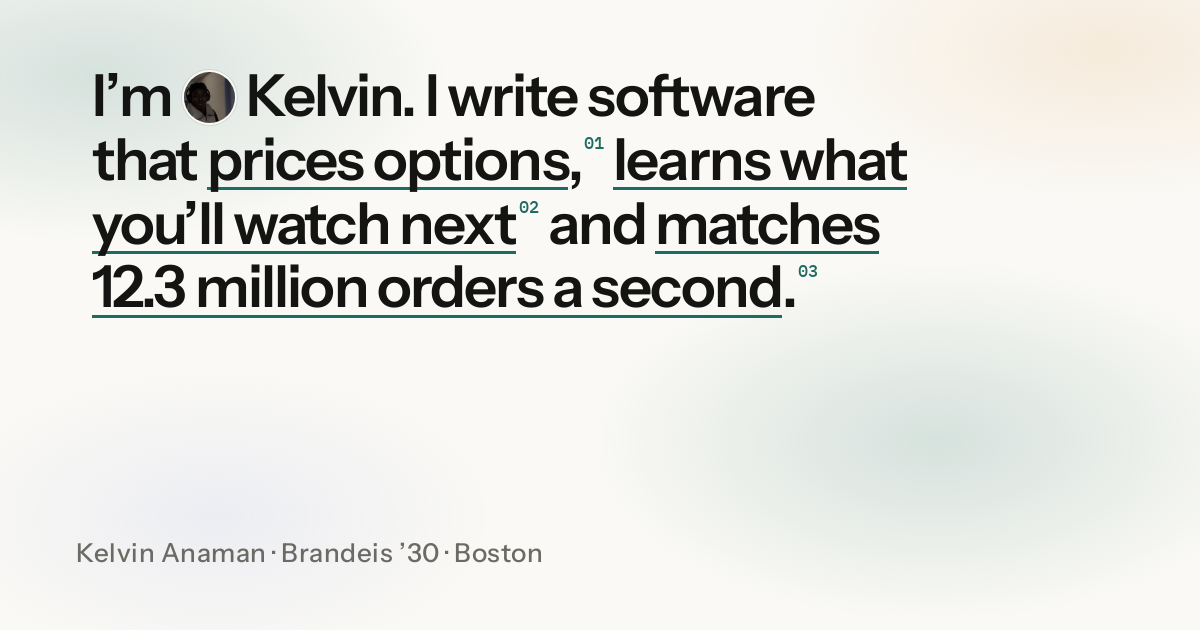
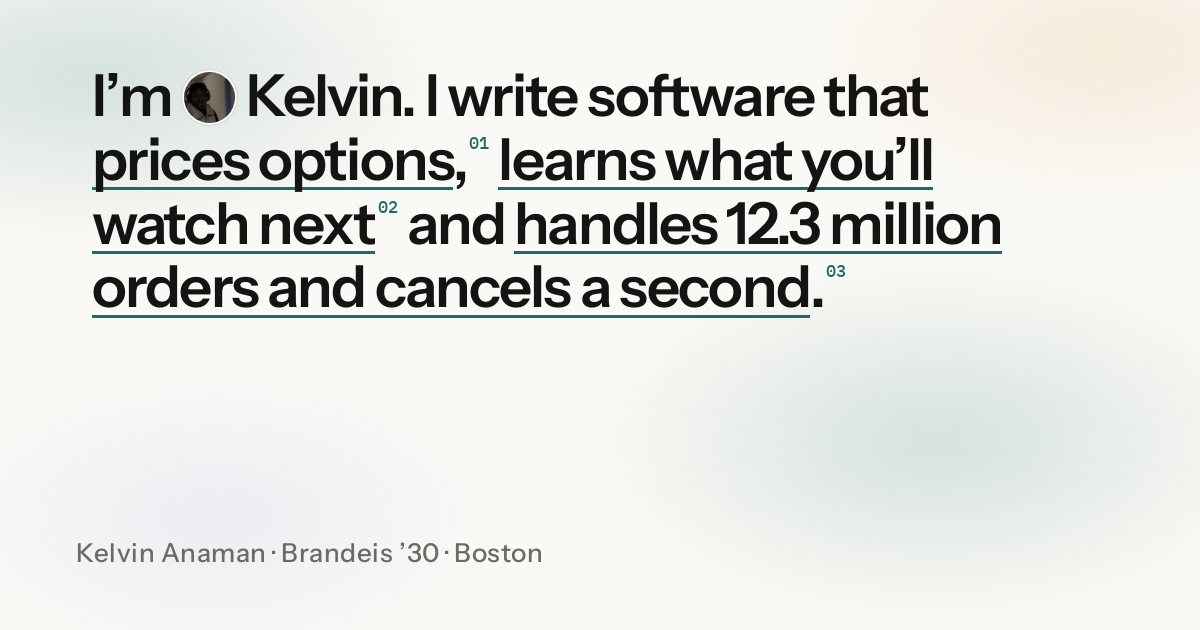
site: professional surface, corrected figures

Changed region(s): [[0.0617, 0.2111, 0.8325, 0.5127], [0.6783, 0.1206, 0.7708, 0.181], [0.5858, 0.2111, 0.6167, 0.2413]]

diff --git a/index.html b/index.html
@@ -2,7 +2,7 @@
 <html lang="en">
 <head>
 <meta charset="utf-8">
-<meta http-equiv="Content-Security-Policy" content="default-src 'none'; script-src 'sha256-goWgAYNoXjUvyhsW7u2wqlvzr5alT6ytvTSSjrYWtoE=' 'wasm-unsafe-eval'; style-src 'self' 'unsafe-inline'; font-src 'self'; img-src 'self' data:; media-src 'self'; connect-src 'self' https://api.github.com wss://advanced-trade-ws.coinbase.com; base-uri 'none'; form-action 'none'; object-src 'none'">
+<meta http-equiv="Content-Security-Policy" content="default-src 'none'; script-src 'sha256-pLDqLHekZOG+8hnKLbkPVG8Q7tNyWokit4rkqXYpQ7U=' 'wasm-unsafe-eval'; style-src 'self' 'unsafe-inline'; font-src 'self'; img-src 'self' data:; media-src 'self'; connect-src 'self' wss://advanced-trade-ws.coinbase.com; base-uri 'none'; form-action 'none'; object-src 'none'">
 <meta name="referrer" content="strict-origin-when-cross-origin">
 <meta name="viewport" content="width=device-width, initial-scale=1, viewport-fit=cover">
 <meta name="theme-color" content="#faf9f5" media="(prefers-color-scheme: light)">
@@ -13,15 +13,15 @@
 <meta property="og:type" content="website">
 <meta property="og:site_name" content="Kelvin Anaman">
 <meta property="og:title" content="Kelvin Anaman">
-<meta property="og:description" content="Kelvin Anaman writes software that prices options, learns what you’ll watch next and matches 12.3 million orders a second. Brandeis ’30.">
+<meta property="og:description" content="Kelvin Anaman writes software that prices options, learns what you’ll watch next and handles 12.3 million orders and cancels a second. Brandeis ’30.">
 <meta property="og:url" content="https://anamankev.github.io/">
 <meta property="og:image" content="https://anamankev.github.io/img/og.png">
 <meta property="og:image:width" content="1200">
 <meta property="og:image:height" content="630">
-<meta property="og:image:alt" content="Kelvin Anaman: I write software that prices options, learns what you’ll watch next and matches 12.3 million orders a second.">
+<meta property="og:image:alt" content="Kelvin Anaman: I write software that prices options, learns what you’ll watch next and handles 12.3 million orders and cancels a second.">
 <meta name="twitter:card" content="summary_large_image">
 <title>Kelvin Anaman</title>
-<meta name="description" content="Kelvin Anaman writes software that prices options, learns what you’ll watch next and matches 12.3 million orders a second. Brandeis ’30.">
+<meta name="description" content="Kelvin Anaman writes software that prices options, learns what you’ll watch next and handles 12.3 million orders and cancels a second. Brandeis ’30.">
 <style>
 @font-face { font-family: 'Instrument Sans'; font-style: normal; font-display: swap; font-weight: 400; src: url(fonts/instrument-sans-latin-ext-400-normal.woff2) format('woff2'); unicode-range: U+0100-02BA,U+02BD-02C5,U+02C7-02CC,U+02CE-02D7,U+02DD-02FF,U+0304,U+0308,U+0329,U+1D00-1DBF,U+1E00-1E9F,U+1EF2-1EFF,U+2020,U+20A0-20AB,U+20AD-20C0,U+2113,U+2C60-2C7F,U+A720-A7FF; }
 @font-face { font-family: 'Instrument Sans'; font-style: normal; font-display: swap; font-weight: 400; src: url(fonts/instrument-sans-latin-400-normal.woff2) format('woff2'); unicode-range: U+0000-00FF,U+0131,U+0152-0153,U+02BB-02BC,U+02C6,U+02DA,U+02DC,U+0304,U+0308,U+0329,U+2000-206F,U+20AC,U+2122,U+2191,U+2193,U+2212,U+2215,U+FEFF,U+FFFD; }
@@ -476,12 +476,6 @@ svg.thumb .acc { fill: var(--accent); }
 @media (max-width: 860px) { .about-intro { grid-template-columns: minmax(0, 1fr); gap: 24px; } .about-intro .portrait { order: -1; max-width: 160px; justify-self: start; } .loves, .gallery { grid-template-columns: repeat(2, minmax(0, 1fr)); } }
 @media (max-width: 520px) { .loves, .gallery { grid-template-columns: minmax(0, 1fr); } .now { grid-template-columns: minmax(0, 1fr); gap: 4px; } }
 
-/* live line */
-.live { display: flex; align-items: center; gap: 8px; margin: 18px 0 0; font-size: 0.82rem; color: var(--ink-3); min-width: 0; }
-.live i { flex: none; width: 7px; height: 7px; border-radius: 50%; background: var(--buy); box-shadow: 0 0 0 3px color-mix(in srgb, var(--buy) 25%, transparent); }
-.live a { color: var(--ink-2); text-decoration: none; overflow: hidden; text-overflow: ellipsis; white-space: nowrap; min-width: 0; }
-.live a:hover { color: var(--accent); }
-.live b { font-family: var(--mono); font-weight: 500; color: var(--ink); }
 
 /* easter eggs */
 .confetti { position: fixed; inset: 0; z-index: 70; pointer-events: none; }
@@ -645,7 +639,7 @@ footer .base { grid-column: 1 / -1; display: flex; justify-content: space-betwee
   <div class="view" id="v-home">
     <div class="wrap">
       <section class="statement">
-        <h1>I’m <img class="face" src="me.jpg" width="56" height="56" alt=""> Kelvin. I write software that <a href="#options-pricing-engine" data-inst="price">prices options</a>,<sup aria-hidden="true">01</sup> <a href="#two-stage-recsys" data-inst="learn">learns what you’ll watch next</a><sup aria-hidden="true">02</sup> and <a href="#brier" data-inst="match">matches 12.3 million orders a second</a>.<sup aria-hidden="true">03</sup></h1>
+        <h1>I’m <img class="face" src="me.jpg" width="56" height="56" alt=""> Kelvin. I write software that <a href="#options-pricing-engine" data-inst="price">prices options</a>,<sup aria-hidden="true">01</sup> <a href="#two-stage-recsys" data-inst="learn">learns what you’ll watch next</a><sup aria-hidden="true">02</sup> and <a href="#brier" data-inst="match">handles 12.3 million orders and cancels a second</a>.<sup aria-hidden="true">03</sup></h1>
       </section>
       <section class="instruments" id="instruments" aria-label="Three of my engines, running in this page">
         <article class="inst" data-inst="price">
@@ -664,7 +658,7 @@ footer .base { grid-column: 1 / -1; display: flex; justify-content: space-betwee
           <header><span class="ix">03</span><h2>Match</h2><a class="src" href="#brier">brier →</a></header>
           <div class="viz ladder-mini" id="iv-match" role="img" aria-label="A prediction-market order book, with orders arriving and trading"></div>
           <dl class="read" id="ir-match"></dl>
-          <p class="proof"><b>0 of 6,058,014</b> acknowledged orders lost across 1,000 crashes</p>
+          <p class="proof"><b>0 of 6,058,014</b> acknowledged commands lost across 1,000 crashes</p>
         </article>
       </section>
       <p class="inst-note"><i></i>Running now: my Rust engines, compiled to WebAssembly. The stock, the tastes and the orders are simulated.</p>
@@ -689,7 +683,6 @@ footer .base { grid-column: 1 / -1; display: flex; justify-content: space-betwee
             <a class="icon-btn" href="https://github.com/anamankev" aria-label="GitHub"><svg viewBox="0 0 16 16" fill="currentColor" aria-hidden="true"><path d="M8 0C3.58 0 0 3.58 0 8c0 3.54 2.29 6.53 5.47 7.59.4.07.55-.17.55-.38v-1.34c-2.23.48-2.7-1.07-2.7-1.07-.36-.92-.89-1.17-.89-1.17-.73-.5.06-.49.06-.49.8.06 1.23.83 1.23.83.72 1.22 1.87.87 2.33.66.07-.52.28-.87.5-1.07-1.78-.2-3.64-.89-3.64-3.95 0-.87.31-1.59.82-2.15-.08-.2-.36-1.02.08-2.12 0 0 .67-.21 2.2.82a7.6 7.6 0 0 1 4 0c1.53-1.04 2.2-.82 2.2-.82.44 1.1.16 1.92.08 2.12.51.56.82 1.27.82 2.15 0 3.07-1.87 3.75-3.65 3.95.29.25.54.73.54 1.48v2.2c0 .21.15.46.55.38A8 8 0 0 0 16 8c0-4.42-3.58-8-8-8Z"/></svg></a>
             <a class="icon-btn" href="https://www.linkedin.com/in/kelvin-anaman" aria-label="LinkedIn"><svg viewBox="0 0 24 24" fill="currentColor" aria-hidden="true"><path d="M20.45 20.45h-3.56v-5.57c0-1.33-.02-3.04-1.85-3.04-1.85 0-2.14 1.45-2.14 2.94v5.67H9.35V9h3.41v1.56h.05c.48-.9 1.64-1.85 3.37-1.85 3.6 0 4.27 2.37 4.27 5.46v6.28ZM5.34 7.43a2.06 2.06 0 1 1 0-4.13 2.06 2.06 0 0 1 0 4.13ZM7.12 20.45H3.56V9h3.56v11.45ZM22.22 0H1.77C.79 0 0 .77 0 1.73v20.54C0 23.23.79 24 1.77 24h20.45c.98 0 1.78-.77 1.78-1.73V1.73C24 .77 23.2 0 22.22 0Z"/></svg></a>
           </div>
-          <p class="live" id="live" hidden><i></i><span id="live-text"></span></p>
         </div>
         <figure class="portrait"><img src="me.jpg" width="336" height="336" alt="Kelvin Anaman"></figure>
       </section>
@@ -825,7 +818,7 @@ footer .base { grid-column: 1 / -1; display: flex; justify-content: space-betwee
           <div>
             <p class="about-lead">I grew up in Ghana and now live in Boston, where I study quantitative economics, mathematics and computer science at Brandeis as a Wien Scholar.</p>
             <p>I learn a system by building it myself. I wrote a vector index from the HNSW paper and a matching engine from an empty file, then tested each one against the tools professionals use. Now I’m building <a href="#kestrel" style="color:var(--ink);text-decoration-color:var(--accent);text-underline-offset:3px">Kestrel</a>, a market terminal for students, and running <a href="https://pulseenergies.com" style="color:var(--ink);text-decoration-color:var(--accent);text-underline-offset:3px">Pulse Energies</a>, the grid-forecasting company I founded.</p>
-            <p>A fun fact: some of my favourite work is with other people’s startups. I build alongside founders and advise them where I can, so if you’re starting something, I’d like to hear about it.</p>
+            <p>I also work with early-stage founders, building alongside them and advising on product and engineering.</p>
             <div class="route-line" aria-label="From Ghana to Boston"><span class="flag" aria-hidden="true"><i></i><i></i><i></i><b>★</b></span><span>Ghana</span><span class="dash"></span><span>Boston</span></div>
           </div>
           <figure class="portrait"><img src="me.jpg" width="336" height="336" alt="Kelvin Anaman"></figure>
@@ -853,18 +846,6 @@ footer .base { grid-column: 1 / -1; display: flex; justify-content: space-betwee
         </div>
       </section>
 
-      <section class="section" style="padding-top:0">
-        <p class="kicker">Off the clock</p>
-        <h2 style="margin-bottom:18px">A few things I love</h2>
-        <div class="loves">
-          <div class="love"><div class="k">Sports</div><div class="v">Big sports fan</div></div>
-          <div class="love"><div class="k">Music</div><div class="v">Afrobeat and gospel</div></div>
-          <div class="love"><div class="k">Food</div><div class="v">Ghana jollof</div><p>Arguably the best jollof rice, and I will argue it.</p></div>
-          <div class="love"><div class="k">Screen</div><div class="v">Movies over books</div><p>Given the choice, a film wins.</p></div>
-          <div class="love"><div class="k">Games</div><div class="v">Chess and poker</div><p>One game of perfect information, one of hidden information.</p></div>
-          <div class="love"><div class="k">Travel</div><div class="v">Qatar, the UK, 10 US states</div><p>Visited for fun, and the list is growing.</p></div>
-        </div>
-      </section>
 
       <section class="section" style="padding-top:0" id="gallery-sec" hidden>
         <p class="kicker">Photos</p>
@@ -887,18 +868,17 @@ footer .base { grid-column: 1 / -1; display: flex; justify-content: space-betwee
       <div class="page-head">
         <p class="kicker">Colophon</p>
         <h1>How this site is built</h1>
-        <p>One hand-written file of HTML, CSS and JavaScript. No framework, no bundler, no trackers.</p>
+        <p>Hand-written HTML, CSS and TypeScript, with Rust compiled to WebAssembly. No framework and no trackers.</p>
       </div>
       <section class="section colo">
         <dl>
           <div><dt>Languages</dt><dd>TypeScript for the page logic, type-checked on every push. Rust compiled to WebAssembly for the three demo engines: the order book, the Black-Scholes pricer and the HNSW search. Python for the build, the browser tests and the charts. HTML and CSS for everything you see.</dd></div>
           <div><dt>Weight</dt><dd><span data-weight>42 KB</span> of page and <span data-wasm-weight>9 KB</span> of WebAssembly, gzipped, before images. The build measures both on every change.</dd></div>
           <div><dt>Routing</dt><dd>Every page, case study and post lives in one document and is chosen by the URL hash, so links to any page work and the back button behaves. Page changes use the View Transitions API where the browser has it, and skip it for anyone who prefers reduced motion.</dd></div>
-          <div><dt>Command line</dt><dd>Modelled on Kestrel, my terminal. <kbd>⌘K</kbd> or <kbd>/</kbd> opens it; commands match by code, then by prefix, then by subsequence. It is an ARIA listbox, so it works from the keyboard and with a screen reader. A few commands are hidden: try <code>HELP</code>.</dd></div>
-          <div><dt>Demos</dt><dd>The order book, the pricer and the HNSW search run in Rust compiled to WebAssembly, with Rust unit tests for the matching order, the option values and the search result. Each keeps a TypeScript version as a fallback for browsers without WebAssembly. The live order book streams Coinbase’s public feed.</dd></div>
-          <div><dt>Live data</dt><dd>The “latest commit” line on the home page calls the public GitHub API, caches the answer for ten minutes in session storage, and disappears quietly if GitHub doesn’t answer.</dd></div>
-          <div><dt>Privacy</dt><dd>No cookies and no analytics. Local storage holds only your theme and which secrets you’ve found. Fonts load from Google Fonts.</dd></div>
-          <div><dt>Type and color</dt><dd>Plus Jakarta Sans and IBM Plex Mono. Graphite and cyan, the same palette as Kestrel, in light and dark.</dd></div>
+          <div><dt>Command line</dt><dd>Modelled on Kestrel, my terminal. <kbd>⌘K</kbd> or <kbd>/</kbd> opens it; commands match by code, then by prefix, then by subsequence. It is an ARIA listbox, so it works from the keyboard and with a screen reader. Type <code>?</code> to list every command.</dd></div>
+          <div><dt>Demos</dt><dd>The order book, the pricer and the HNSW search run in Rust compiled to WebAssembly, on the home page and on each project page, with Rust unit tests for the matching order, the option values and the search result. Each keeps a TypeScript version as a fallback for browsers without WebAssembly. The live order book streams Coinbase’s public feed.</dd></div>
+          <div><dt>Privacy</dt><dd>No cookies, no analytics and no third-party requests: the code, fonts and images are all served from this site. Only the Kestrel page connects elsewhere, to Coinbase’s public market data, for its live order book. Local storage holds only your theme.</dd></div>
+          <div><dt>Type and color</dt><dd>Instrument Sans and IBM Plex Mono, both under the SIL Open Font License and served from this site. Warm paper and deep teal, in light and dark.</dd></div>
         </dl>
       </section>
     </div>
@@ -917,7 +897,7 @@ footer .base { grid-column: 1 / -1; display: flex; justify-content: space-betwee
     <div><h4>Pages</h4><ul><li><a href="#experience">Experience</a></li><li><a href="#projects">Projects</a></li><li><a href="#writing">Writing</a></li><li><a href="#about">About</a></li><li><a href="#colophon">How this site is built</a></li></ul></div>
     <div><h4>Projects</h4><ul><li><a href="#brier">brier</a></li><li><a href="#hnsw-engine">hnsw-engine</a></li><li><a href="#options-pricing-engine">options-pricing-engine</a></li><li><a href="#kestrel">kestrel</a></li><li><a href="#two-stage-recsys">two-stage-recsys</a></li></ul></div>
     <div><h4>Contact</h4><ul><li><a href="mailto:kanaman@brandeis.edu">kanaman@brandeis.edu</a></li><li><a href="https://github.com/anamankev">GitHub</a></li><li><a href="https://www.linkedin.com/in/kelvin-anaman">LinkedIn</a></li></ul></div>
-    <div class="base"><span>© 2026 Kelvin Anaman · <span id="clock" hidden></span></span><span>No frameworks, no trackers: <span id="weight">49 KB</span> of page and <span id="wasm-weight">12 KB</span> of WebAssembly, gzipped, before images.</span></div>
+    <div class="base"><span>© 2026 Kelvin Anaman</span><span>No frameworks, no trackers: <span id="weight">48 KB</span> of page and <span id="wasm-weight">12 KB</span> of WebAssembly, gzipped, before images.</span></div>
   </div>
 </footer>
 
@@ -1029,7 +1009,7 @@ footer .base { grid-column: 1 / -1; display: flex; justify-content: space-betwee
       cmd: "BRIER",
       name: "brier",
       demo: "Order book",
-      card: 'A prediction-market exchange in Rust, open to the public with play money. It matches <span class="num">12.3M orders a second</span> on one core and was killed 1,000 times under load without losing an acknowledged order.',
+      card: 'A prediction-market exchange in Rust, open to the public with play money. It handles <span class="num">12.3M orders and cancels a second</span> on one core and was killed 1,000 times under load without losing an acknowledged order.',
       img: '<img src="img/brier-live.jpg" alt="Brier\u2019s live home page: a featured Juventus vs Venezia market with Yes and No prices, a probability chart, and markets closing soon" style="object-position:top left">',
       cls: "",
       tags: ["Rust", "Tokio", "PostgreSQL"],
@@ -1038,7 +1018,7 @@ footer .base { grid-column: 1 / -1; display: flex; justify-content: space-betwee
       problem: "A prediction market looks simple: yes/no contracts that pay 100 if something happens and 0 if it doesn\u2019t, so the price reads as a probability. Underneath, an exchange has to match orders fairly, never lose one it has accepted, and settle from evidence anyone can check. I built all three, from the matching engine to settlement, and opened it to the public with play money.",
       how: ["A deterministic matching engine in Rust with price-time priority. Replaying the command log reproduces every state hash.", "A double-entry ledger with pre-trade collateral checks. After every event it checks that credits issued equal balances plus escrow.", "A crash-safe journal: no order is acknowledged before it is on disk, with one flush per batch of orders.", "About 100 open events that settle from public data (NWS, USGS, BLS, FRED, NOAA, league results), with the evidence hashed into the journal.", "A market maker that trades only through the public API, and surveillance for wash trading, spoofing and insider-like trading."],
       lesson: "The surveillance study was pre-registered: two detectors passed and two did not, and the write-up says which.",
-      numbers: [["12.3M / s", "orders matched on one core"], ["334 ns", "p99 matching latency"], ["9.14 ms", "p99 order to acknowledgment, through the gateway"], ["0 of 6,058,014", "acknowledged commands lost across 1,000 crashes under load"], ["10M", "random commands with no divergence from an independent Python engine"]]
+      numbers: [["12.3M / s", "orders and cancels on one core, median of five runs"], ["334 ns", "p99 matching latency"], ["9.14 ms", "p99 order to acknowledgment, through the gateway"], ["0 of 6,058,014", "acknowledged commands lost across 1,000 crashes under load"], ["10M", "random commands with no divergence from an independent Python engine"]]
     },
     {
       id: "hnsw-engine",
@@ -1087,9 +1067,9 @@ footer .base { grid-column: 1 / -1; display: flex; justify-content: space-betwee
       media: '<video src="img/kestrel-demo.mp4" poster="img/kestrel-demo-poster.jpg" autoplay muted loop playsinline preload="metadata" aria-label="Kestrel demo: commands typed into the terminal, live crypto depth and linked panels"></video>',
       links: [["Code", "https://github.com/anamankev/kestrel"], ["Performance", "https://github.com/anamankev/kestrel/blob/main/docs/PERFORMANCE.md"], ["Security review", "https://github.com/anamankev/kestrel/blob/main/SECURITY.md"]],
       problem: "Professional terminals are built around a command line: type a ticker and a function, press GO. I wanted to build one natively for iPad and Mac, fast enough to stream live order books, using only free public data and no third-party packages.",
-      how: ["28 functions on one command line, such as <code>AAPL GP</code>, <code>BTC DEPTH</code> and <code>WEI</code>.", "Live Coinbase depth and trades; Deribit options with Black-76 greeks and a strategy builder.", "Backtests that charge costs, fill at the next open and pay idle cash the T-bill rate.", "Paper trading with market, limit, stop and stop-limit orders and Reg T short margin."],
+      how: ["35 functions on one command line, such as <code>AAPL GP</code>, <code>BTC DEPTH</code> and <code>WEI</code>.", "Live Coinbase depth and trades; Deribit options with Black-76 greeks and a strategy builder.", "Backtests that charge costs, fill at the next open and pay idle cash the T-bill rate.", "Paper trading with market, limit, stop and stop-limit orders and Reg T short margin."],
       lesson: "Every speed-up started from a profile, and the before and after numbers are written down: the depth ladder went from 826 \xB5s to 27 \xB5s, and decoding a 1,000-contract option chain from 44 ms to 2.9 ms.",
-      numbers: [["10 ms", "median feed latency, exchange to screen"], ["190 \xB5s", "main-thread work per 100 ms of ticks"], ["31\xD7", "faster depth ladder after profiling"], ["28", "functions on one command line"]]
+      numbers: [["10 ms", "median feed latency, exchange to screen"], ["190 \xB5s", "main-thread work per 100 ms of ticks"], ["31\xD7", "faster depth ladder after profiling"], ["35", "functions on one command line"]]
     },
     {
       id: "two-stage-recsys",
@@ -1105,7 +1085,7 @@ footer .base { grid-column: 1 / -1; display: flex; justify-content: space-betwee
       problem: "Large recommenders work in two stages: a cheap model narrows a huge catalog to a few hundred candidates, and an expensive one orders them. I built both stages and evaluated them without shortcuts: full-catalog ranking, a leakage-tested temporal split and bootstrap confidence intervals.",
       how: ["A PyTorch two-tower model trained with log-Q corrected in-batch softmax.", "200 candidates per user retrieved through hnsw-engine: 98.4% overlap with exact search at 0.094 ms per user.", "A LightGBM LambdaRank reranker with time-aware features.", "A FastAPI service with a per-stage latency breakdown."],
       lesson: "The first ranker scored below plain retrieval. Diagnosing it on validation data only led to recency features worth +0.0287 NDCG@10.",
-      numbers: [["0.0906", "NDCG@10, against 0.0445 for tuned implicit ALS"], ["+0.0461", "paired improvement, 95% CI [0.0407, 0.0513]"], ["0.1047", "NDCG@10 on MovieLens-10M with every setting unchanged"], ["0.56 ms", "per request, end to end"]]
+      numbers: [["0.0906", "NDCG@10, against 0.0445 for tuned implicit ALS"], ["+0.0461", "paired improvement, 95% CI [0.0407, 0.0513]"], ["0.1047", "NDCG@10 on MovieLens-10M with every setting unchanged"], ["0.56 ms", "mean per request, server-side"]]
     }
   ];
   var HNSW_G = {
@@ -2372,22 +2352,7 @@ footer .base { grid-column: 1 / -1; display: flex; justify-content: space-betwee
       termMode();
     } }
   ]);
-  function eggsFound() {
-    try {
-      return JSON.parse(localStorage.getItem("eggs") || "[]").length;
-    } catch (e) {
-      return 0;
-    }
-  }
   function egg(name) {
-    try {
-      var a = JSON.parse(localStorage.getItem("eggs") || "[]");
-      if (a.indexOf(name) < 0) {
-        a.push(name);
-        localStorage.setItem("eggs", JSON.stringify(a));
-      }
-    } catch (e) {
-    }
   }
   function confetti() {
     if (matchMedia("(prefers-reduced-motion: reduce)").matches) return;
@@ -2462,72 +2427,12 @@ footer .base { grid-column: 1 / -1; display: flex; justify-content: space-betwee
     }).join("");
     $("#gallery-sec").hidden = false;
   }
-  (function clock() {
-    var el = $("#clock");
-    if (!window.Intl) return;
-    function tick() {
-      try {
-        el.textContent = "It\u2019s " + new Intl.DateTimeFormat("en-US", { timeZone: "America/New_York", hour: "numeric", minute: "2-digit" }).format(/* @__PURE__ */ new Date()) + " in Boston";
-        el.hidden = false;
-      } catch (e) {
-      }
-    }
-    tick();
-    setInterval(tick, 3e4);
-  })();
   $$("[data-weight]").forEach(function(n) {
     n.textContent = $("#weight").textContent;
   });
   $$("[data-wasm-weight]").forEach(function(n) {
     n.textContent = $("#wasm-weight").textContent;
   });
-  (function live() {
-    var el = $("#live"), txt = $("#live-text");
-    function ago(d) {
-      var s = (Date.now() - new Date(d).getTime()) / 1e3, u = [[86400, "day"], [3600, "hour"], [60, "minute"]];
-      for (var i = 0; i < u.length; i++) {
-        var n = Math.floor(s / u[i][0]);
-        if (n >= 1) return n + " " + u[i][1] + (n > 1 ? "s" : "") + " ago";
-      }
-      return "just now";
-    }
-    function show(c) {
-      txt.innerHTML = 'Latest commit <a href="' + esc(c.url) + '" title="' + esc(c.msg) + '"><b>' + esc(c.repo) + "</b> \xB7 " + esc(c.msg) + '</a><span style="flex:none">\xB7 ' + ago(c.date) + "</span>";
-      txt.style.display = "contents";
-      el.hidden = false;
-    }
-    try {
-      var cached = JSON.parse(sessionStorage.getItem("live") || "null");
-      if (cached && Date.now() - cached.t < 6e5) {
-        show(cached.c);
-        return;
-      }
-    } catch (e) {
-    }
-    if (!window.fetch) return;
-    fetch("https://api.github.com/users/anamankev/events/public?per_page=30").then(function(r) {
-      if (!r.ok) throw 0;
-      return r.json();
-    }).then(function(ev) {
-      var push = ev.filter(function(e) {
-        return e.type === "PushEvent" && e.repo.name !== "anamankev/anamankev.github.io";
-      })[0];
-      if (!push) throw 0;
-      return fetch("https://api.github.com/repos/" + push.repo.name + "/commits?per_page=1").then(function(r) {
-        if (!r.ok) throw 0;
-        return r.json();
-      }).then(function(cs) {
-        var c = cs[0];
-        var o = { repo: push.repo.name.split("/")[1], msg: c.commit.message.split("\n")[0].slice(0, 90), date: c.commit.author.date, url: c.html_url };
-        try {
-          sessionStorage.setItem("live", JSON.stringify({ t: Date.now(), c: o }));
-        } catch (e) {
-        }
-        show(o);
-      });
-    }).catch(function() {
-    });
-  })();
   var pal = $("#pal"), q = $("#pal-q"), list = $("#pal-list"), sel = 0, shown = [], lastFocus = null;
   function score(cmd, s) {
     if (!s) return 1;
@@ -2557,7 +2462,6 @@ footer .base { grid-column: 1 / -1; display: flex; justify-content: space-betwee
     list.innerHTML = shown.length ? shown.map(function(c, i) {
       return '<li role="option" id="opt-' + i + '" aria-selected="' + (i === sel) + '" data-i="' + i + '"><code>' + c.c + '</code><span class="d">' + c.d + '</span><span class="g">' + c.g + "</span></li>";
     }).join("") : '<li class="empty" aria-disabled="true">No command matches \u201C' + esc(q.value) + "\u201D. Try brier, mail or theme.</li>";
-    if (s === "?") list.insertAdjacentHTML("afterbegin", '<li class="empty" aria-disabled="true">Secrets found: ' + eggsFound() + " of 6. Konami code works too.</li>");
     q.setAttribute("aria-activedescendant", shown.length ? "opt-" + sel : "");
     var cur = $("#opt-" + sel);
     if (cur) cur.scrollIntoView({ block: "nearest" });
